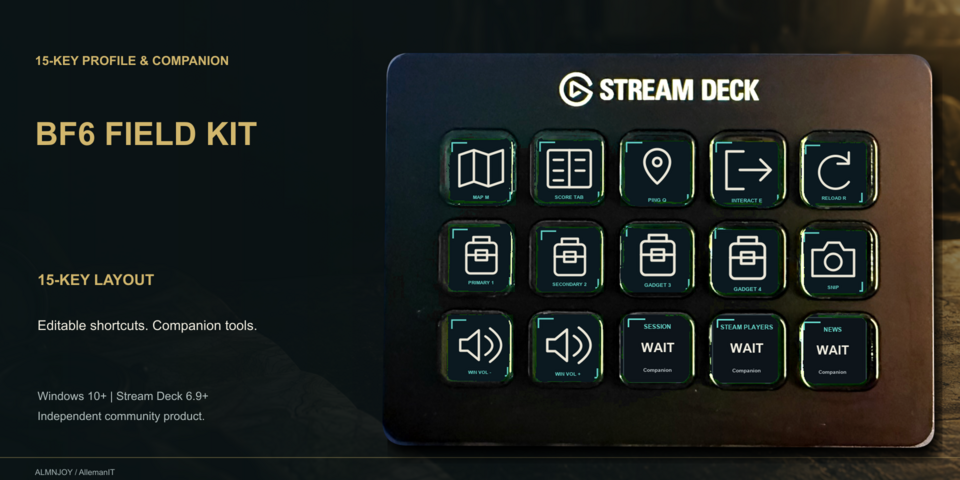
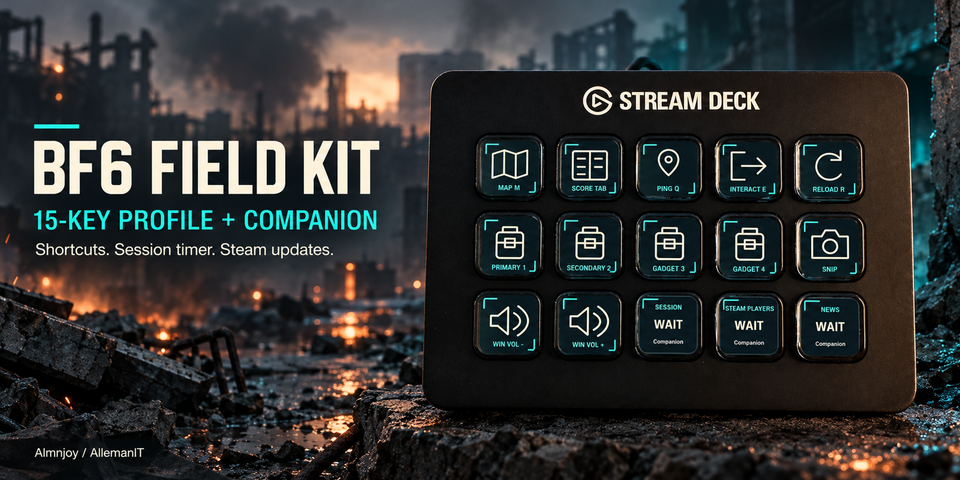
marketplace: cut catalog to the 14 live/pending listings, new hero covers, BF6 live

diff --git a/src/data/marketplace.ts b/src/data/marketplace.ts
@@ -1,6 +1,8 @@
 // Single source of truth for the Elgato Marketplace page.
-// Covers live in public/design-lab/marketplace/<slug>.png, 960x480 downscales of each listing's 01-Hero.png
-//   (1920x960) from BUSINESS/Brand-and-Marketing/ElgatoMarketplace/<product>/Gallery/<newest set>/.
+// Covers live in public/design-lab/marketplace/<slug>.png, 960x480 downscales of the hero that is LIVE on each listing
+//   (1920x960) from BUSINESS/Brand-and-Marketing/ElgatoMarketplace/<product>/Gallery/. Published listings keep the
+//   hero Elgato shows today (BF6 = Marketplace-2026-10-10, Tactical Circuit = original 2026-09-13 grid cover), not
+//   the newest unsubmitted revision.
 //
 // 2026-10-14: catalog cut to the 14 products that exist in Maker Console (12 published, 2 pending review).
 //   Every rejected or never-submitted listing was deleted from the console by Dustin; their site entries and
@@ -49,7 +51,7 @@ export const products: Product[] = [
     title: 'BF6 Field Kit',
     category: 'Plugins',
     tagline: 'A 15-key infantry layout with its own companion plugin for Battlefield 6 players: map, scoreboard, ping, interact, reload, weapon and gadget slots, plus a manual round timer and Steam player count.',
-    alt: 'BF6 Field Kit cover: a Stream Deck photographed on a desk with map, scoreboard, ping, reload and weapon slot keys in white line art.',
+    alt: 'BF6 Field Kit cover: a Stream Deck with map, scoreboard, ping, reload and weapon slot keys in white line art over a ruined city.',
     note: 'Independent AllemanIT work, not an official Battlefield or EA product. Key bindings are configurable shortcuts; in-game defaults may differ.',
     price: '$3.99',
     url: 'https://marketplace.elgato.com/product/bf6-field-kit-515cf902-34bf-4cb4-a42b-b09b987cb43d',
@@ -63,7 +65,7 @@ export const products: Product[] = [
     title: 'WARDOGS - Tactical Circuit',
     category: 'Profiles',
     tagline: 'Tactical Circuit artwork for WARDOGS on a 15-key Stream Deck: infantry, vehicle, helicopter and building sets, ivory symbols on orange and blue circuits.',
-    alt: 'WARDOGS - Tactical Circuit cover: a Stream Deck photographed on a desk with orange and blue circuit-board keys.',
+    alt: 'WARDOGS - Tactical Circuit cover: fifteen ivory tactical symbols on orange and blue circuit fragments, Your deck, your control.',
     note: 'Independent ALMNJOY work, not an official WARDOGS, BULKHEAD or Elgato product. Button images are static and do not report live game state.',
     price: '$1.99',
     url: 'https://marketplace.elgato.com/product/wardogs-tactical-circuit-f5fee548-35a8-4015-92a6-b42bf4534821',
@@ -126,7 +128,7 @@ export const products: Product[] = [
   },
   {
     slug: 'home-glow',
-    title: 'Home Glow',
+    title: 'Home Glow (V2 coming)',
     category: 'Icons',
     tagline: '64 static designs and 24 animated alternatives for room and lighting control: desk lights, reading, cinema, curtains, fan, heating.',
     alt: 'Home Glow cover: a Stream Deck photographed on a desk showing the pack artwork.',
